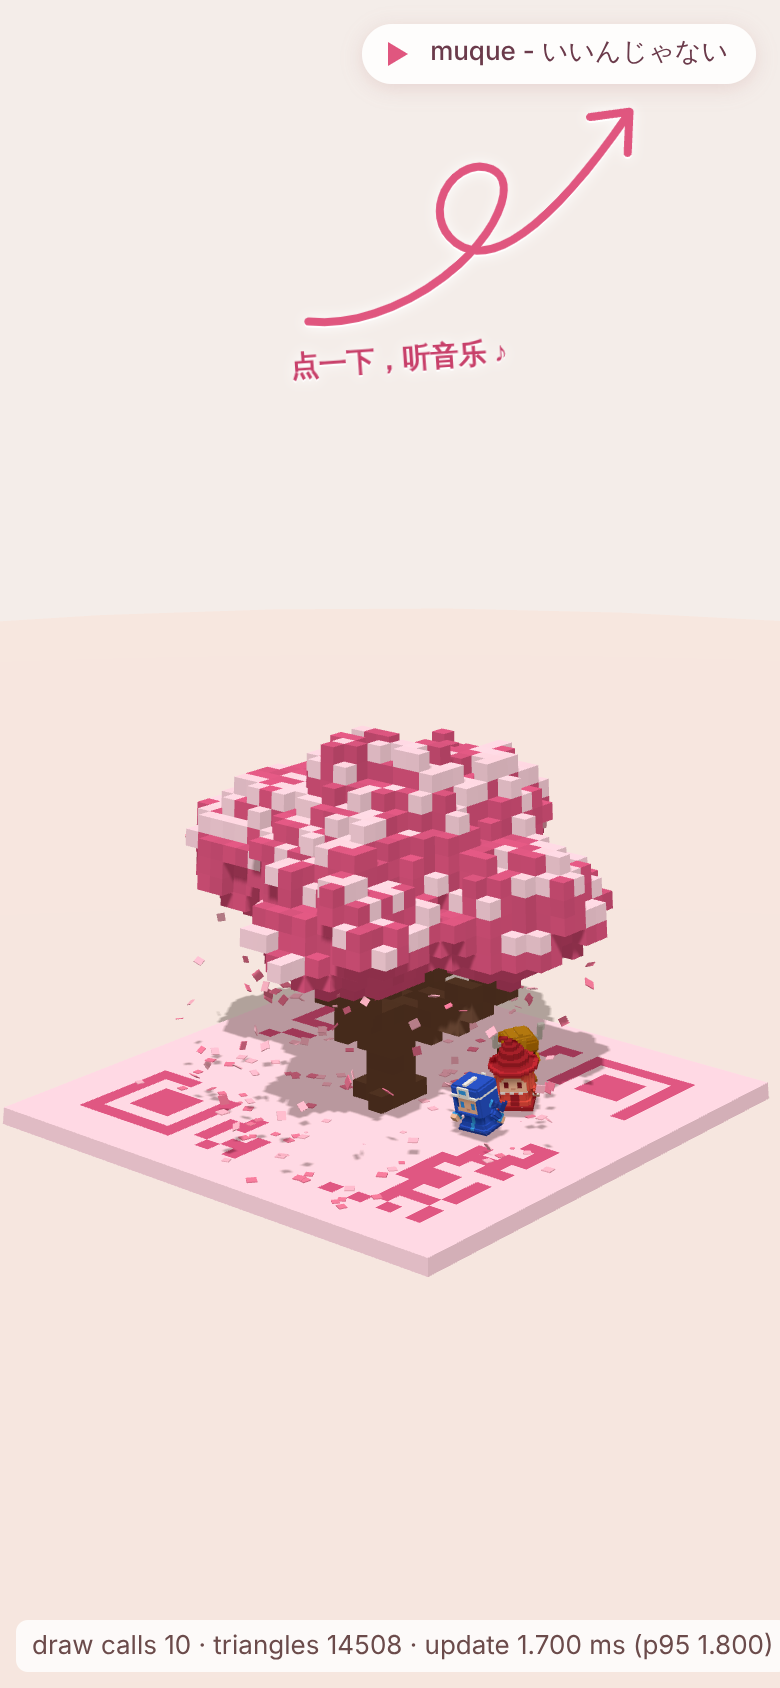
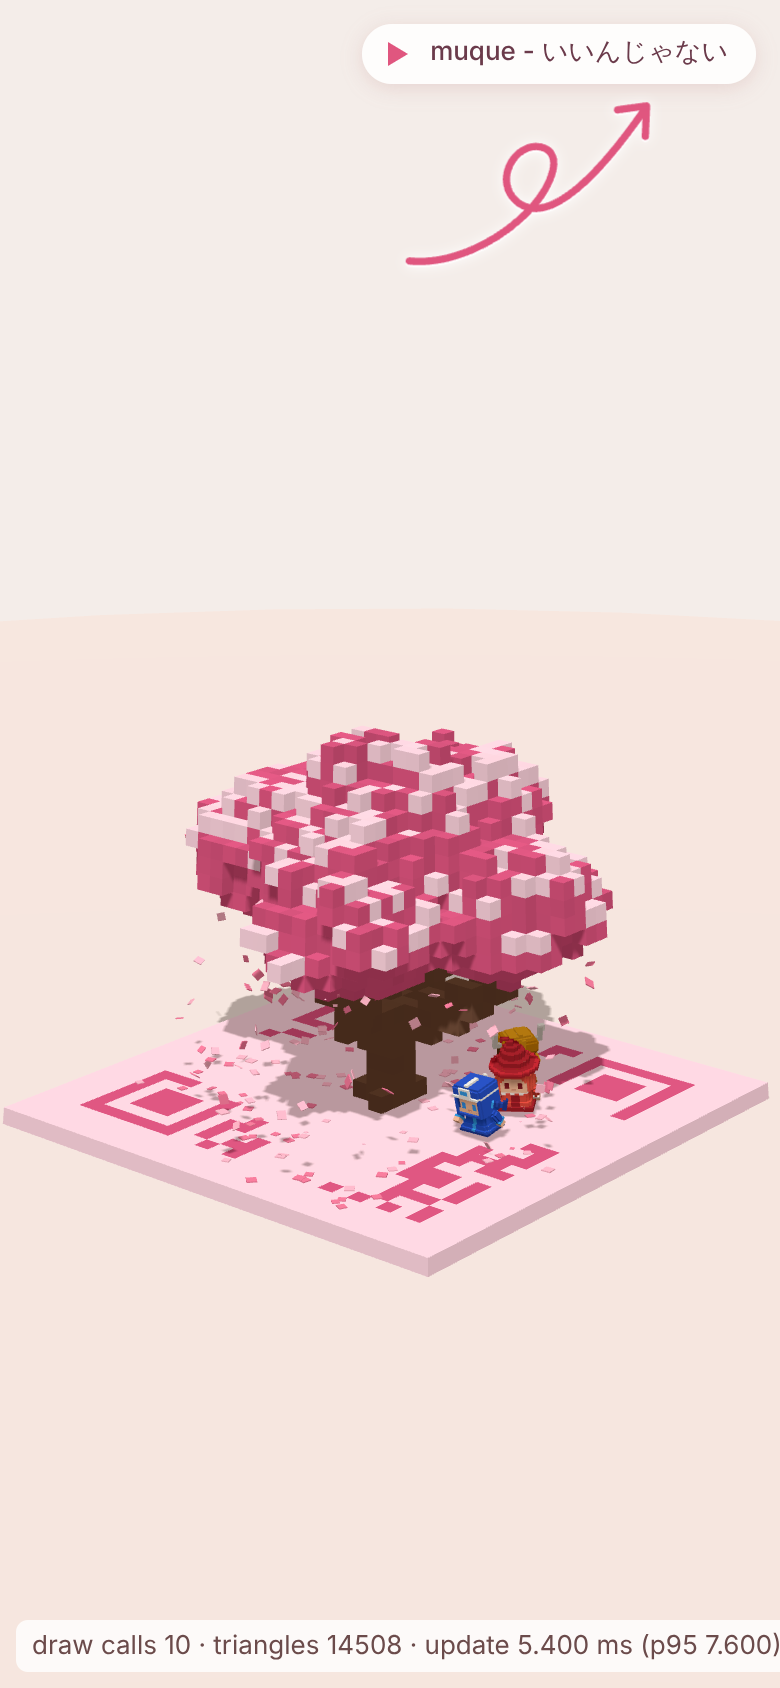
Music hint: arrow only, smaller
No caption under the arrow, and the arrow is ~70% of its size (stroke a little heavier to keep it legible).

Claude-Session: https://claude.ai/code/session_01FetaT53w5iQdLWHoFnmCoa

diff --git a/index.html b/index.html
@@ -26,21 +26,18 @@
   #music:not(.playing) .icon::before { content: ''; position: absolute; left: 3px; top: 1px; border-style: solid;
     border-width: 6px 0 6px 10px; border-color: transparent transparent transparent #e0567f; }
   /* first-visit hint: a hand-drawn arrow looping up to the music button, until the first tap */
-  #hint { position: fixed; top: 46px; right: 64px; width: min(210px, 46vw); pointer-events: none; color: #e0567f;
+  #hint { position: fixed; top: 46px; right: 58px; width: min(150px, 34vw); pointer-events: none; color: #e0567f;
     transition: opacity .35s; filter: drop-shadow(0 1px 0 #fff) drop-shadow(0 0 3px #fff); }
   #hint[hidden] { display: block; opacity: 0; visibility: hidden; transition: opacity .35s, visibility 0s .35s; }
   #hint svg { display: block; width: 100%; height: auto; overflow: visible; animation: bob 2.4s ease-in-out 1.4s infinite; }
-  #hint .stroke { fill: none; stroke: currentColor; stroke-width: 4.5; stroke-linecap: round; stroke-linejoin: round;
+  #hint .stroke { fill: none; stroke: currentColor; stroke-width: 5.5; stroke-linecap: round; stroke-linejoin: round;
     stroke-dasharray: 420; stroke-dashoffset: 420; animation: draw 1.2s ease-out .4s forwards; }
   #hint .head { stroke-dasharray: 60; stroke-dashoffset: 60; animation: draw .35s ease-out 1.5s forwards; }
-  #hint .label { position: absolute; left: -2px; top: calc(100% + 4px); transform: rotate(-4deg); transform-origin: left top;
-    font: 600 14px/1.2 system-ui, sans-serif; white-space: nowrap; color: #c8406a; opacity: 0; animation: fade .5s ease-out 1.4s forwards; }
   @keyframes draw { to { stroke-dashoffset: 0; } }
-  @keyframes fade { to { opacity: 1; } }
   @keyframes bob { 0%, 100% { transform: translate(0, 0); } 50% { transform: translate(5px, -5px); } }
   @media (prefers-reduced-motion: reduce) {
     #music.playing .bar { animation: none; height: 9px; }
-    #hint svg, #hint .label { animation: none; opacity: 1; }
+    #hint svg { animation: none; }
     #hint .stroke { animation: none; stroke-dashoffset: 0; }
   }
 </style>
@@ -59,7 +56,6 @@
     <path class="stroke" d="M8 128 C 40 131, 72 114, 92 96 C 116 74, 126 46, 107 42 C 88 38, 70 68, 90 84 C 114 102, 152 62, 186 13"/>
     <path class="stroke head" d="M165 14 L187 11 L186 34"/>
   </svg>
-  <span class="label">点一下，听音乐 ♪</span>
 </div>
 <button id="music" type="button" hidden aria-label="背景音乐：muque - いいんじゃない（点击暂停或继续）" title="点击暂停 / 继续">
   <span class="icon"><span class="bar"></span><span class="bar"></span><span class="bar"></span><span class="bar"></span></span>

diff --git a/README.md b/README.md
@@ -84,7 +84,7 @@ node test/shots.mjs         # 无头 Chromium 跑自检，截图到 screenshots/
 
 ## 背景音乐
 
-演示页循环播放 `audio/bgm.m4a`（AAC，93.3 秒，1.5 MB），右上角的按钮显示正在播放「muque - いいんじゃない」，点击暂停或继续。浏览器不允许没有交互就自动出声，所以自动播放被拒绝时，按钮停在暂停状态，等观众点一下。在歌曲开始之前，演出按 scene.js 自己的时钟走；开始之后跟着歌曲的播放位置走；暂停时故事停在当前位置。按钮一打开页面就显示（暂停状态），不等音频加载完：iOS Safari 在观众点击之前不会加载任何音频，如果等加载完再显示，按钮就永远出不来。音乐文件无法播放时，按钮仍然显示，但变成灰色、不能点击。在歌曲开始之前，按钮旁边会画出一个粉色的手绘箭头，绕一个圈指向按钮，旁边写着「点一下，听音乐 ♪」。第一次点击按钮（或者自动播放成功）后，箭头消失，之后即使暂停也不会再出现。
+演示页循环播放 `audio/bgm.m4a`（AAC，93.3 秒，1.5 MB），右上角的按钮显示正在播放「muque - いいんじゃない」，点击暂停或继续。浏览器不允许没有交互就自动出声，所以自动播放被拒绝时，按钮停在暂停状态，等观众点一下。在歌曲开始之前，演出按 scene.js 自己的时钟走；开始之后跟着歌曲的播放位置走；暂停时故事停在当前位置。按钮一打开页面就显示（暂停状态），不等音频加载完：iOS Safari 在观众点击之前不会加载任何音频，如果等加载完再显示，按钮就永远出不来。音乐文件无法播放时，按钮仍然显示，但变成灰色、不能点击。在歌曲开始之前，按钮旁边会画出一个粉色的手绘箭头，绕一个圈指向按钮。第一次点击按钮（或者自动播放成功）后，箭头消失，之后即使暂停也不会再出现。
 
 ## 部署
 
